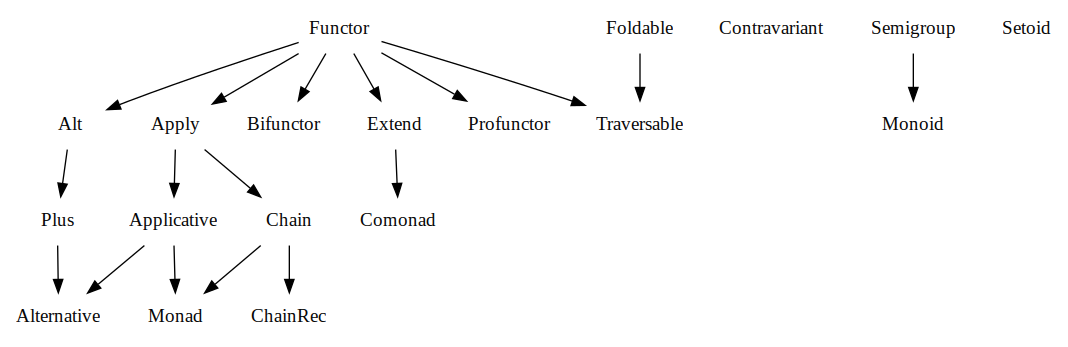
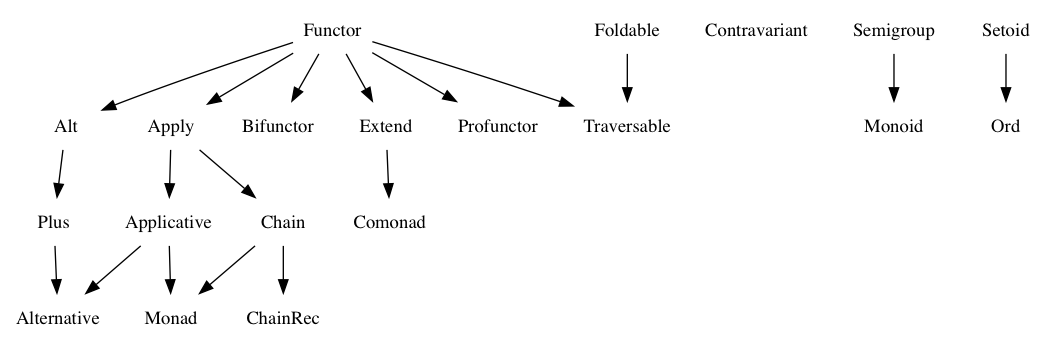
Add Ord spec
* Use precedes instead of compare to define Ord

* Replace reflexivity with totality so we can have a toset

* Change 'precedes' to 'lte'

diff --git a/laws/ord.js b/laws/ord.js
@@ -1,0 +1,37 @@
+'use strict';
+
+const {lte, equals} = require('..');
+
+/**
+   ### Ord
+
+   1. `a.lte(b)` or `b.lte(a)` (totality)
+   2. If `a.lte(b)` and `b.lte(a)`, then `a.equals(b)` (antisymmetry)
+   3. If `a.lte(b)` and `b.lte(c)`, then `a.lte(c)` (transitivity)
+
+**/
+
+const totality = eq => f => g => {
+  const a = f[lte](g);
+  const b = g[lte](f);
+  const c = true;
+  return eq(a || b, c);
+};
+
+const antisymmetry = eq => f => g => {
+  const a = f[lte](g);
+  const b = g[lte](f);
+  const c = f[equals](g);
+  const d = true;
+  return eq(a, d) && eq(b, d) && eq(c, d);
+};
+
+const transitivity = eq => f => g => h => {
+  const a = f[lte](g);
+  const b = g[lte](h);
+  const c = f[lte](h);
+  const d = true;
+  return eq(a, d) && eq(b, d) && eq(c, d);
+};
+
+module.exports = {totality, antisymmetry, transitivity};

diff --git a/test.js b/test.js
@@ -16,6 +16,7 @@ const foldable = require('./laws/foldable');
 const functor = require('./laws/functor');
 const monad = require('./laws/monad');
 const monoid = require('./laws/monoid');
+const ord = require('./laws/ord');
 const plus = require('./laws/plus');
 const semigroup = require('./laws/semigroup');
 const setoid = require('./laws/setoid');
@@ -96,6 +97,12 @@ exports.plus = {
 exports.monoid = {
   leftIdentity: test(monoid.leftIdentity(Sum)(equality)),
   rightIdentity: test(monoid.rightIdentity(Sum)(equality)),
+};
+
+exports.ord = {
+  totality: test(() => ord.totality(equality)(Id[fl.of](1))(Id[fl.of](2))),
+  antisymmetry: test(() => ord.antisymmetry(equality)(Id[fl.of](1))(Id[fl.of](1))),
+  transitivity: test(() => ord.transitivity(equality)(Id[fl.of](1))(Id[fl.of](2))(Id[fl.of](3))),
 };
 
 exports.semigroup = {

diff --git a/internal/id.js b/internal/id.js
@@ -1,7 +1,7 @@
 'use strict';
 
 const fl = require('../');
-const {equality} = require('./func');
+const {equality, lte} = require('./func');
 
 const {tagged} = require('daggy');
 
@@ -10,6 +10,11 @@ const Id = module.exports = tagged('value');
 // Setoid
 Id.prototype[fl.equals] = function(b) {
   return equality(this.value, b.value);
+};
+
+// Ord
+Id.prototype[fl.lte] = function(b) {
+  return lte(this.value, b.value);
 };
 
 // Semigroup (value must also be a Semigroup)

diff --git a/internal/func.js b/internal/func.js
@@ -2,7 +2,15 @@
 
 const fl = require('../');
 const equality = (x, y) => typeof x[fl.equals] === 'function' ? x[fl.equals](y) : x === y;
+const lte = (x, y) => {
+  if (typeof y[fl.lte] === 'function') return y[fl.lte](x);
+
+  const typeX = typeof x;
+  const typeY = typeof y;
+  return typeX === typeY && (typeX === 'string' || typeX === 'number') && x <= y;
+};
 
 module.exports = {
   equality,
+  lte,
 };

diff --git a/index.js b/index.js
@@ -7,6 +7,7 @@
 
   var mapping = {
     equals: 'fantasy-land/equals',
+    lte: 'fantasy-land/lte',
     concat: 'fantasy-land/concat',
     empty: 'fantasy-land/empty',
     map: 'fantasy-land/map',

diff --git a/README.md b/README.md
@@ -29,7 +29,7 @@ structures:
 * [Bifunctor](#bifunctor)
 * [Profunctor](#profunctor)
 
-<img src="figures/dependencies.png" width="888" height="289" />
+<img src="figures/dependencies.png" width="888" height="294" />
 
 ## General
 
@@ -113,6 +113,33 @@ A value which has a Setoid must provide an `equals` method. The
        unspecified (returning `false` is recommended).
 
 2. `equals` must return a boolean (`true` or `false`).
+
+### Ord
+
+A value that implements the Ord specification must also implement
+the [Setoid](#setoid) specification.
+
+1. `a.lte(b)` or `b.lte(a)` (totality)
+2. If `a.lte(b)` and `b.lte(a)`, then `a.equals(b)` (antisymmetry)
+3. If `a.lte(b)` and `b.lte(c)`, then `a.lte(c)` (transitivity)
+
+#### `lte` method
+
+```hs
+lte :: Ord a => a ~> a -> Boolean
+```
+
+A value which has an Ord must provide a `lte` method. The
+`lte` method takes one argument:
+
+     a.lte(b)
+
+1. `b` must be a value of the same Ord
+
+    1. If `b` is not the same Ord, behaviour of `lte` is
+       unspecified (returning `false` is recommended).
+
+2. `lte` must return a boolean (`true` or `false`).
 
 ### Semigroup
 
@@ -605,6 +632,12 @@ The `profunctor` method takes two arguments:
 When creating data types which satisfy multiple algebras, authors may choose
 to implement certain methods then derive the remaining methods. Derivations:
 
+  - [`equals`][] may be derived from [`lte`][]:
+
+    ```js
+    function(other) { return this.lte(other) && other.lte(this); }
+    ```
+
   - [`map`][] may be derived from [`ap`][] and [`of`][]:
 
     ```js
@@ -698,6 +731,7 @@ be equivalent to that of the derivation (or derivations).
 [`equals`]: #equals-method
 [`extend`]: #extend-method
 [`extract`]: #extract-method
+[`lte`]: #lte-method
 [`map`]: #map-method
 [`of`]: #of-method
 [`promap`]: #promap-method
